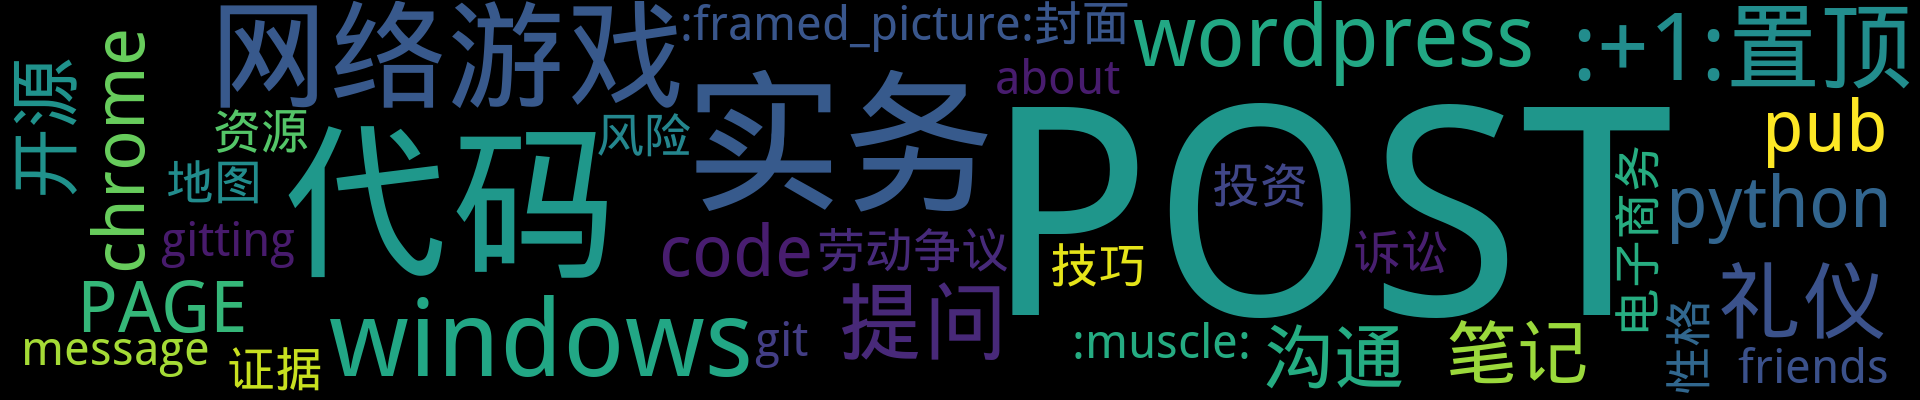
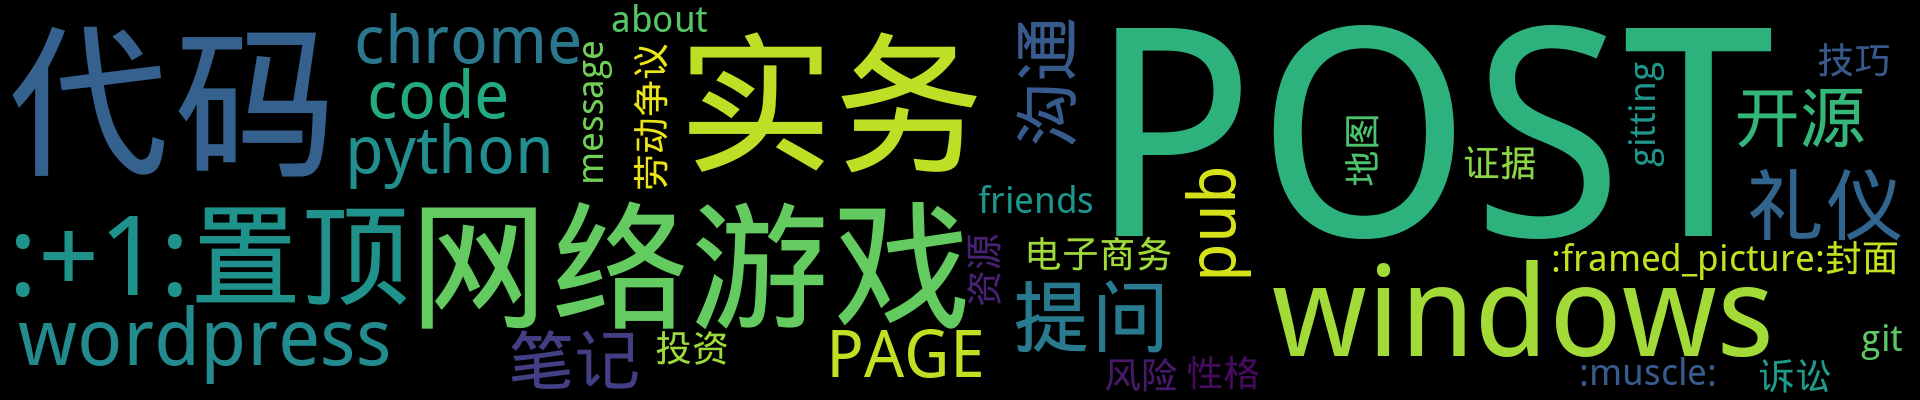
Update from Github Action

diff --git a/README.md b/README.md
@@ -19,7 +19,7 @@
 <p align='center'>
     <img src="https://badgen.net/badge/labels/40"/>
     <img src="https://badgen.net/github/issues/fydy/elaw"/>
-    <img src="https://badgen.net/badge/last-commit/2020-10-13 06:16:55"/>
+    <img src="https://badgen.net/badge/last-commit/2021-05-21 06:09:10"/>
     <img src="https://badgen.net/github/forks/fydy/elaw"/>
     <img src="https://badgen.net/github/stars/fydy/elaw"/>
     <img src="https://badgen.net/github/watchers/fydy/elaw"/>
@@ -54,6 +54,30 @@ is
 - [简单生活](https://github.com/fydy/elaw/issues/36)  <sup>0 :speech_balloon:</sup>  	 
 - [提问的智慧](https://github.com/fydy/elaw/issues/19)  <sup>0 :speech_balloon:</sup>  	 
 ## 最新 :new: 
+
+#### [How to make your own weighted knot charging cable with FixIts](https://github.com/fydy/elaw/issues/65) <sup>0 :speech_balloon:</sup> 	 2021-05-21 06:08:40
+
+:label: : [POST](https://github.com/fydy/isblog/labels/POST)
+
+![dd73cf78b6e6f07819568c69f79152da_1920x1376](https://user-images.githubusercontent.com/39726855/119089735-3337d300-ba3d-11eb-8b0e-e585af3cb0ad.jpg)
+
+
+[更多>>>](https://github.com/fydy/elaw/issues/65)
+
+---
+
+
+#### [弹出U盘或者移动硬盘时，提示：“该设备正在使用中，请关闭可能使用该设备的所有程序或窗口” 解决办法](https://github.com/fydy/elaw/issues/64) <sup>0 :speech_balloon:</sup> 	 2020-10-28 08:55:02
+
+:label: : [POST](https://github.com/fydy/isblog/labels/POST)
+
+![image](https://user-images.githubusercontent.com/39726855/97413834-3737c280-193e-11eb-971e-ef04d02c41fa.png)
+
+
+[更多>>>](https://github.com/fydy/elaw/issues/64)
+
+---
+
 
 #### [游戏合规系列（四）：网络游戏套版号的法律风险](https://github.com/fydy/elaw/issues/63) <sup>0 :speech_balloon:</sup> 	 2020-10-13 06:16:10
 
@@ -96,32 +120,6 @@ is
 　　根据此前文章[《游戏合规系列：游戏无版号运营的法律风险》](https://github.com/fydy/elaw/issues/60)，我们知道网络游戏无版号运营，网络游戏公司轻则被科以罚款，重则有牢狱之灾。特别在近年监管政策骤然缩紧的
 
 [更多>>>](https://github.com/fydy/elaw/issues/61)
-
----
-
-
-#### [游戏合规系列（一）：游戏无版号运营的法律风险](https://github.com/fydy/elaw/issues/60) <sup>0 :speech_balloon:</sup> 	 2020-10-13 04:15:58
-
-:label: : [网络游戏](https://github.com/fydy/isblog/labels/%E7%BD%91%E7%BB%9C%E6%B8%B8%E6%88%8F)
-
-　　网络游戏的无版号运营是指什么？什么是游戏公测？怎么判断一款游戏是否属于马甲包？套版号又是怎么回事？上述事项各自存在哪些法律风险？为解答上述问题，笔者将于近期推出系列文章，旨在回应社会关切，为读者解疑释惑，析事明理，助力游戏企业合规运营。
-
-　　本篇为系列文章第一篇：游戏无版号运营的法律风险。
-
-[更多>>>](https://github.com/fydy/elaw/issues/60)
-
----
-
-
-#### [网络游戏运营企业需要具备哪些基本资质？](https://github.com/fydy/elaw/issues/59) <sup>0 :speech_balloon:</sup> 	 2020-10-13 04:05:43
-
-:label: : [网络游戏](https://github.com/fydy/isblog/labels/%E7%BD%91%E7%BB%9C%E6%B8%B8%E6%88%8F)
-
-　　一般而言，网络游戏企业本身需要取得ICP证，文网文证，网络出版许可证。此外，网络游戏企业运营的网络游戏还需要在上线前取得游戏版号，并在上线后取得文化部门的备案。
-　　1.ICP证
-　　网络游戏属于经营性互联网信息服务业务。根据《中华人民共和国电信条例》及《互联网信息服务管理办法》等相关规定，
-
-[更多>>>](https://github.com/fydy/elaw/issues/59)
 
 ---
 
@@ -192,8 +190,10 @@ is
 </details>
 
 <details>
-<summary>POST	<sup>47:newspaper:</sup></summary>
+<summary>POST	<sup>49:newspaper:</sup></summary>
 
+- [How to make your own weighted knot charging cable with FixIts](https://github.com/fydy/elaw/issues/65)  <sup>0 :speech_balloon:</sup>  	 
+- [弹出U盘或者移动硬盘时，提示：“该设备正在使用中，请关闭可能使用该设备的所有程序或窗口” 解决办法](https://github.com/fydy/elaw/issues/64)  <sup>0 :speech_balloon:</sup>  	 
 - [家庭教育对孩子成长的影响](https://github.com/fydy/elaw/issues/58)  <sup>0 :speech_balloon:</sup>  	 
 - [民事诉讼庭审程序](https://github.com/fydy/elaw/issues/57)  <sup>0 :speech_balloon:</sup>  	 
 - [互联网电子数据证据举证、认证规程(试行)](https://github.com/fydy/elaw/issues/56)  <sup>0 :speech_balloon:</sup>  	 
